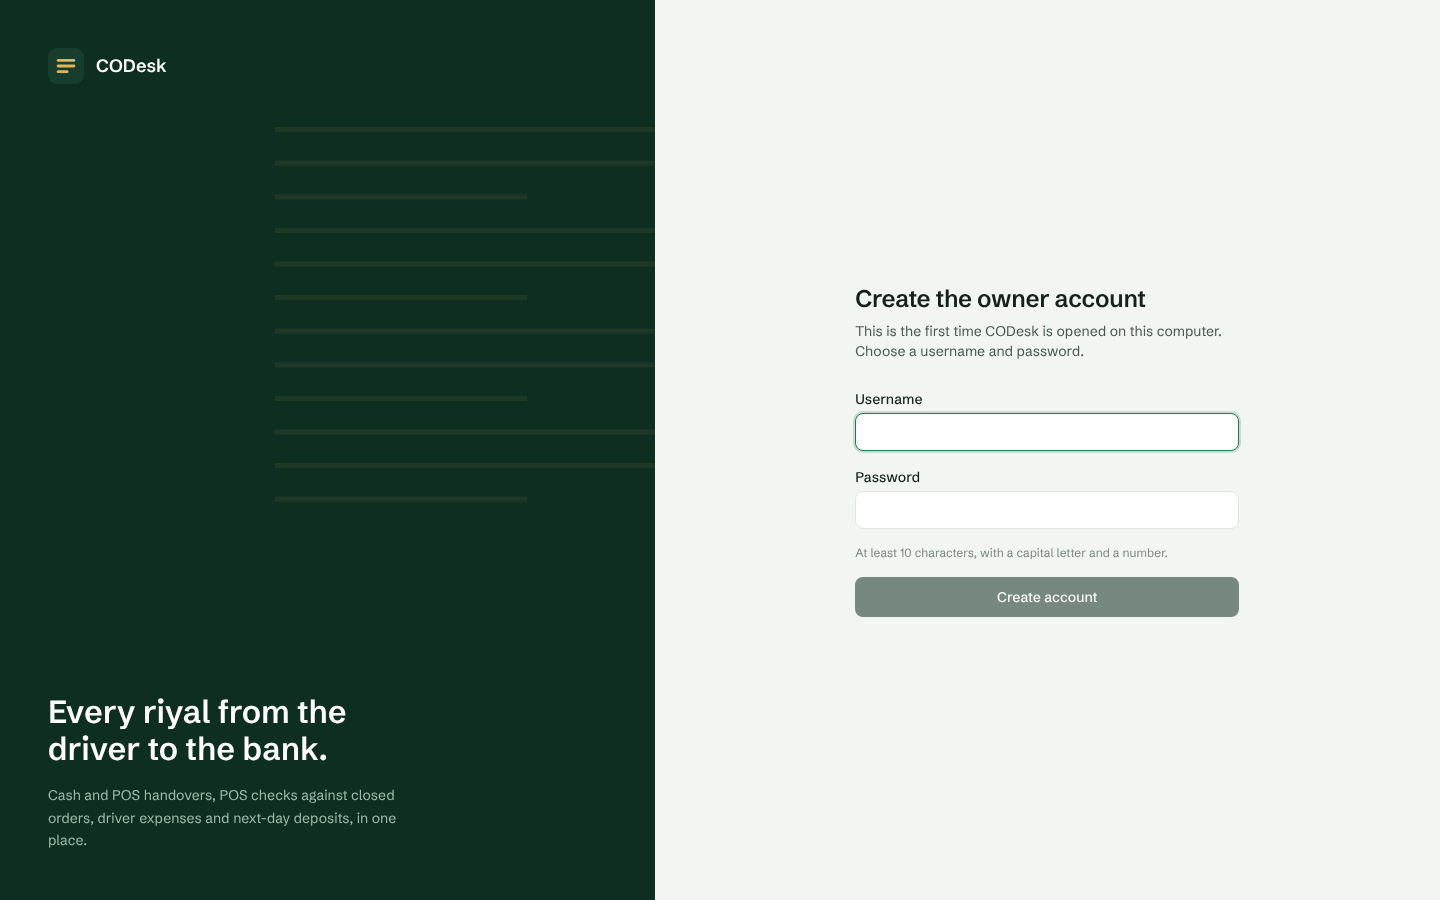
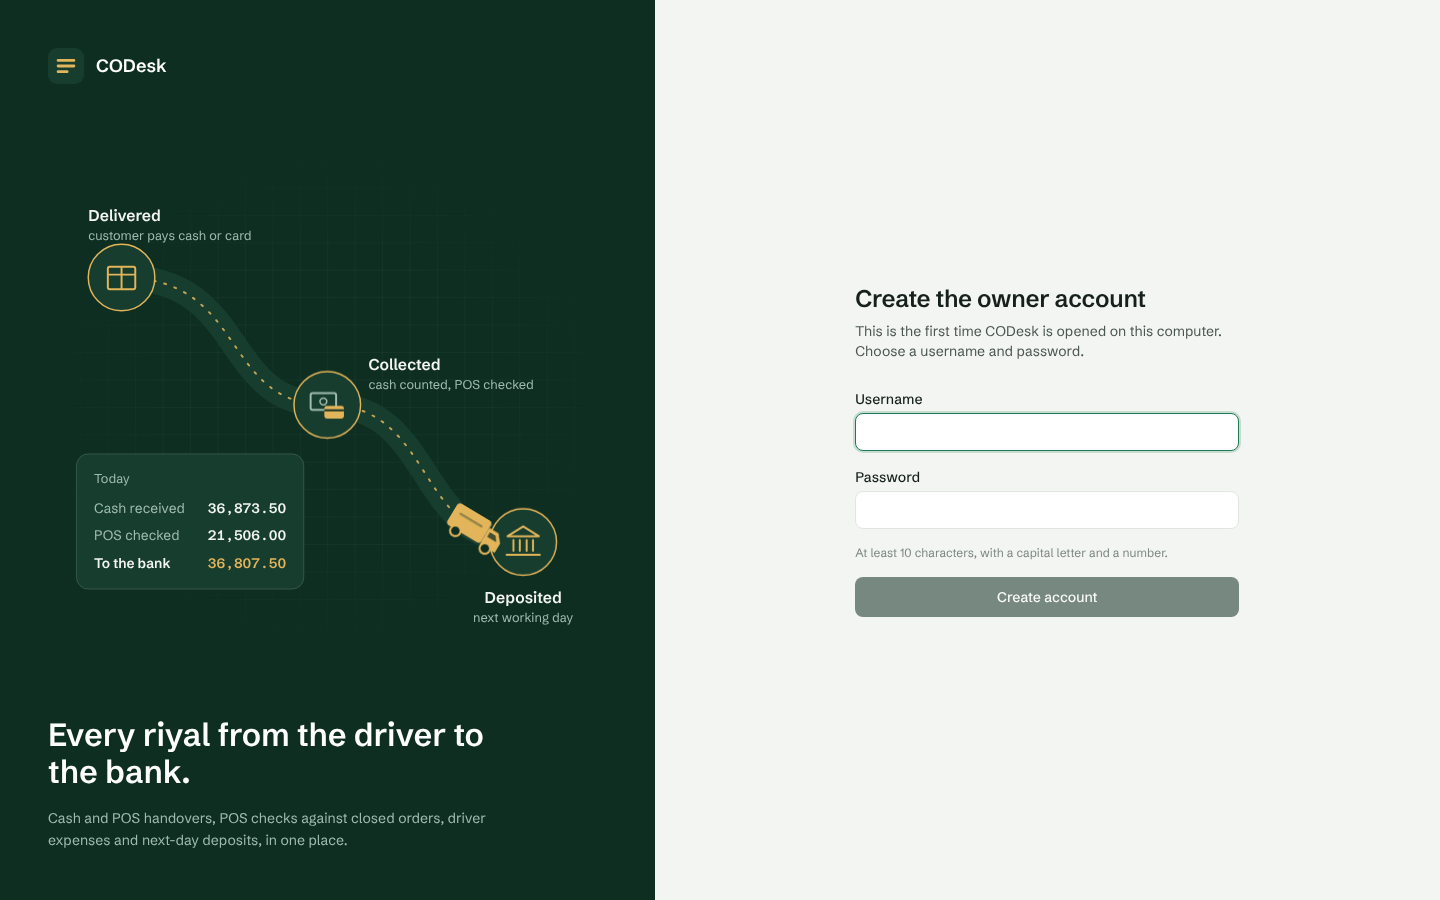
Login page: delivery route illustration from parcel to bank
Claude-Session: https://claude.ai/code/session_013Fw8fVPDP4jMuYiXhaHHHU

diff --git a/frontend/src/components/RouteArt.tsx b/frontend/src/components/RouteArt.tsx
@@ -1,0 +1,110 @@
+import { useEffect, useState } from "react";
+
+/* The welcome illustration: the day's money as a delivery route.
+   A parcel is delivered, the van drives back, cash and POS are checked at the desk,
+   and the cash reaches the bank. The van drives once when the page opens. */
+
+const ROUTE = "M70 120 C 200 120, 170 250, 280 250 C 390 250, 370 390, 480 390";
+const BRASS = "#e2b55a";
+const MINT = "#9fbcae";
+const PAPER = "#f3f5f2";
+
+function Stop({ x, y, children }: { x: number; y: number; children: React.ReactNode }) {
+  return (
+    <g transform={`translate(${x} ${y})`}>
+      <circle r="34" fill="#173d2f" stroke={BRASS} strokeWidth="1.5" />
+      {children}
+    </g>
+  );
+}
+
+function Label({ x, y, title, sub, anchor = "start", delay }: { x: number; y: number; title: string; sub: string; anchor?: "start" | "middle"; delay: number }) {
+  return (
+    <g className="route-fade" style={{ animationDelay: `${delay}s` }}>
+      <text x={x} y={y} textAnchor={anchor} fill={PAPER} fontSize="16" fontWeight="600">{title}</text>
+      <text x={x} y={y + 20} textAnchor={anchor} fill={MINT} fontSize="13">{sub}</text>
+    </g>
+  );
+}
+
+export default function RouteArt({ className = "" }: { className?: string }) {
+  const [still, setStill] = useState(false);
+  useEffect(() => {
+    setStill(typeof window.matchMedia === "function" && window.matchMedia("(prefers-reduced-motion: reduce)").matches);
+  }, []);
+
+  return (
+    <svg viewBox="0 0 560 490" className={className} role="img"
+      aria-label="A parcel is delivered, the van brings the cash back, cash and POS are checked at the desk, and the cash is deposited at the bank">
+      <defs>
+        <pattern id="map-grid" width="28" height="28" patternUnits="userSpaceOnUse">
+          <path d="M28 0H0V28" fill="none" stroke={MINT} strokeOpacity="0.09" strokeWidth="1" />
+        </pattern>
+        <radialGradient id="map-fade" cx="50%" cy="50%" r="55%">
+          <stop offset="55%" stopColor="#fff" />
+          <stop offset="100%" stopColor="#fff" stopOpacity="0" />
+        </radialGradient>
+        <mask id="map-mask"><rect width="560" height="490" fill="url(#map-fade)" /></mask>
+      </defs>
+      <rect width="560" height="490" fill="url(#map-grid)" mask="url(#map-mask)" />
+
+      {/* the road: a wide soft band, then the dashed lane marking */}
+      <path d={ROUTE} fill="none" stroke="#173d2f" strokeWidth="26" strokeLinecap="round" />
+      <path d={ROUTE} fill="none" stroke={BRASS} strokeOpacity="0.85" strokeWidth="2" strokeDasharray="2 9" strokeLinecap="round" />
+
+      {/* 1. parcel delivered, customer pays */}
+      <Stop x={70} y={120}>
+        <rect x="-14" y="-11" width="28" height="23" rx="2" fill="none" stroke={BRASS} strokeWidth="2" />
+        <path d="M-14 -3H14M0 -11V12" stroke={BRASS} strokeWidth="2" />
+      </Stop>
+      <Label x={36} y={62} title="Delivered" sub="customer pays cash or card" delay={0.2} />
+
+      {/* 2. at the desk: cash counted, POS checked */}
+      <Stop x={280} y={250}>
+        <rect x="-17" y="-12" width="26" height="17" rx="2" fill="none" stroke={MINT} strokeWidth="2" />
+        <circle cx="-4" cy="-3.5" r="3.5" fill="none" stroke={MINT} strokeWidth="1.6" />
+        <rect x="-3" y="1" width="20" height="13" rx="2.5" fill={BRASS} />
+        <path d="M-3 5.5H17" stroke="#0f2e22" strokeWidth="2" />
+      </Stop>
+      <Label x={322} y={214} title="Collected" sub="cash counted, POS checked" delay={1.6} />
+
+      {/* 3. the bank */}
+      <Stop x={480} y={390}>
+        <path d="M-16 -6L0 -16L16 -6Z" fill="none" stroke={BRASS} strokeWidth="2" strokeLinejoin="round" />
+        <path d="M-10 -2V9M-3.5 -2V9M3.5 -2V9M10 -2V9M-17 13H17" stroke={BRASS} strokeWidth="2" strokeLinecap="round" />
+      </Stop>
+      <Label x={480} y={452} title="Deposited" sub="next working day" anchor="middle" delay={3.4} />
+
+      {/* the day's ledger, filling in as the van passes each stop */}
+      <g transform="translate(24 300)">
+        <rect width="232" height="138" rx="12" fill="#173d2f" stroke={MINT} strokeOpacity="0.25" />
+        <text x="18" y="30" fill={MINT} fontSize="13">Today</text>
+        {[
+          { y: 60, label: "Cash received", value: "36,873.50", delay: 1.7 },
+          { y: 88, label: "POS checked", value: "21,506.00", delay: 2.2 },
+          { y: 116, label: "To the bank", value: "36,807.50", delay: 3.5, strong: true },
+        ].map((r) => (
+          <g key={r.label} className="route-fade" style={{ animationDelay: `${r.delay}s` }}>
+            <text x="18" y={r.y} fill={r.strong ? PAPER : MINT} fontSize="14" fontWeight={r.strong ? 600 : 400}>{r.label}</text>
+            <text x="214" y={r.y} textAnchor="end" fill={r.strong ? BRASS : PAPER} fontSize="14" fontWeight="600"
+              style={{ fontVariantNumeric: "tabular-nums" }}>{r.value}</text>
+          </g>
+        ))}
+      </g>
+
+      {/* the van; it drives the route once and parks before the bank */}
+      <g transform={still ? "translate(416 390)" : undefined}>
+        {!still && <animateMotion dur="4s" begin="0s" fill="freeze" rotate="auto" path={ROUTE}
+          keyPoints="0;0;0.9" keyTimes="0;0.1;1" calcMode="spline" keySplines="0 0 1 1;0.45 0 0.3 1" />}
+        <g transform={still ? "scale(1.35)" : "translate(0 -1) scale(1.35)"}>
+          <rect x="-21" y="-11" width="30" height="19" rx="3" fill={BRASS} />
+          <path d="M9 -6H17L22 0V8H9Z" fill={BRASS} />
+          <path d="M11 -3.5H16L19 0.5H11Z" fill="#0f2e22" opacity="0.75" />
+          <circle cx="-12" cy="9" r="4" fill="#0f2e22" stroke={BRASS} strokeWidth="1.5" />
+          <circle cx="14" cy="9" r="4" fill="#0f2e22" stroke={BRASS} strokeWidth="1.5" />
+          <path d="M-15 -4H3" stroke="#0f2e22" strokeOpacity="0.35" strokeWidth="2" strokeLinecap="round" />
+        </g>
+      </g>
+    </svg>
+  );
+}

diff --git a/frontend/src/auth.tsx b/frontend/src/auth.tsx
@@ -1,5 +1,6 @@
 import { FormEvent, ReactNode, createContext, useCallback, useContext, useEffect, useState } from "react";
 import { Mark } from "./components/icons";
+import RouteArt from "./components/RouteArt";
 import { FormError } from "./components/ui";
 import { AUTH_LOST, api } from "./lib";
 import type { AuthStatus } from "./types";
@@ -14,13 +15,13 @@ function Shell({ title, subtitle, children }: { title: string; subtitle: string;
     <div className="grid min-h-screen bg-paper lg:grid-cols-[minmax(0,5fr)_minmax(0,6fr)]">
       <aside className="relative hidden overflow-hidden bg-ledger-900 p-12 text-white lg:flex lg:flex-col">
         <div className="flex items-center gap-3"><Mark /><span className="text-lg font-semibold">CODesk</span></div>
-        <div className="mt-auto max-w-sm">
+        <div className="flex min-h-0 flex-1 items-center justify-center py-8">
+          <RouteArt className="h-full max-h-[480px] w-full max-w-[560px]" />
+        </div>
+        <div className="max-w-md">
           <p className="text-[32px] font-semibold leading-[1.15]">Every riyal from the driver to the bank.</p>
           <p className="mt-4 text-sm leading-relaxed text-ledger-300">Cash and POS handovers, POS checks against closed orders, driver expenses and next-day deposits, in one place.</p>
         </div>
-        <svg className="pointer-events-none absolute -right-10 top-24 h-[420px] w-[420px] opacity-[0.07]" viewBox="0 0 100 100" aria-hidden="true">
-          {Array.from({ length: 12 }, (_, i) => <path key={i} d={`M0 ${8 + i * 8}h${i % 3 === 2 ? 60 : 100}`} stroke="#e2b55a" strokeWidth="1.2" />)}
-        </svg>
       </aside>
       <main className="grid place-items-center p-6">
         <div className="w-full max-w-sm">

diff --git a/frontend/src/index.css b/frontend/src/index.css
@@ -18,6 +18,11 @@ h1, h2, h3 { letter-spacing: -0.012em; }
   .btn-danger { @apply btn bg-short text-white hover:bg-short-dark; }
 }
 
+/* The welcome illustration: labels and ledger rows appear as the van reaches each stop. */
+.route-fade { animation: routeFade .5s ease-out both; }
+@keyframes routeFade { from { opacity: 0; transform: translateY(4px); } to { opacity: 1; transform: none; } }
+
 @media (prefers-reduced-motion: reduce) {
+  .route-fade { animation: none; }
   *, *::before, *::after { animation-duration: 0.01ms !important; transition-duration: 0.01ms !important; }
 }

diff --git a/frontend/src/components/RouteArt.test.tsx b/frontend/src/components/RouteArt.test.tsx
@@ -1,0 +1,9 @@
+import { render, screen } from "@testing-library/react";
+import { expect, test } from "vitest";
+import RouteArt from "./RouteArt";
+
+test("the welcome illustration tells the day's story in words too", () => {
+  render(<RouteArt />);
+  expect(screen.getByRole("img", { name: /parcel is delivered.*deposited at the bank/ })).toBeInTheDocument();
+  for (const word of ["Delivered", "Collected", "Deposited", "To the bank"]) expect(screen.getByText(word)).toBeInTheDocument();
+});
